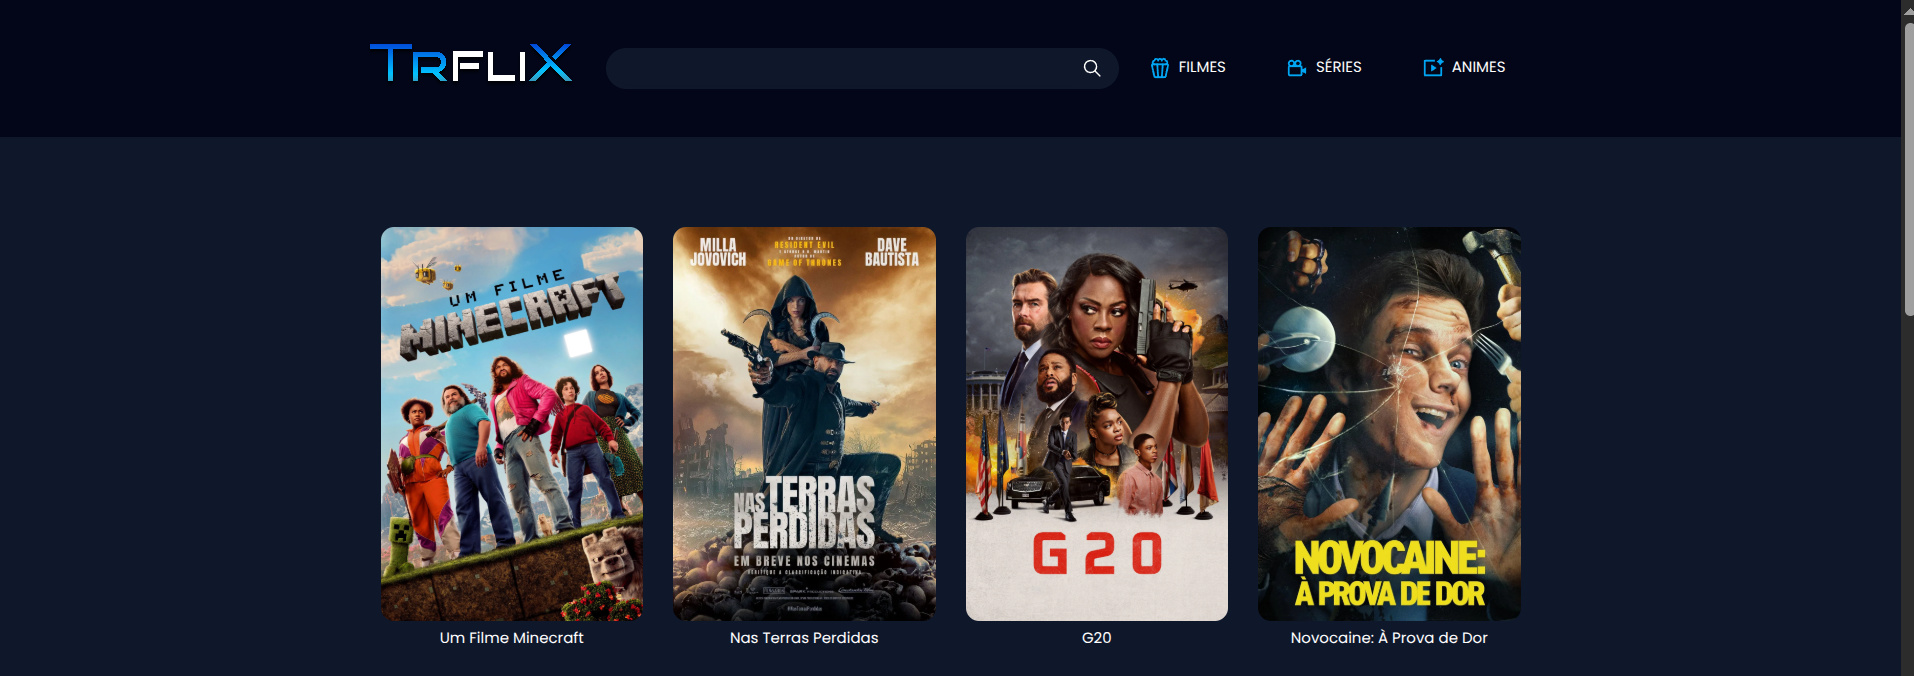
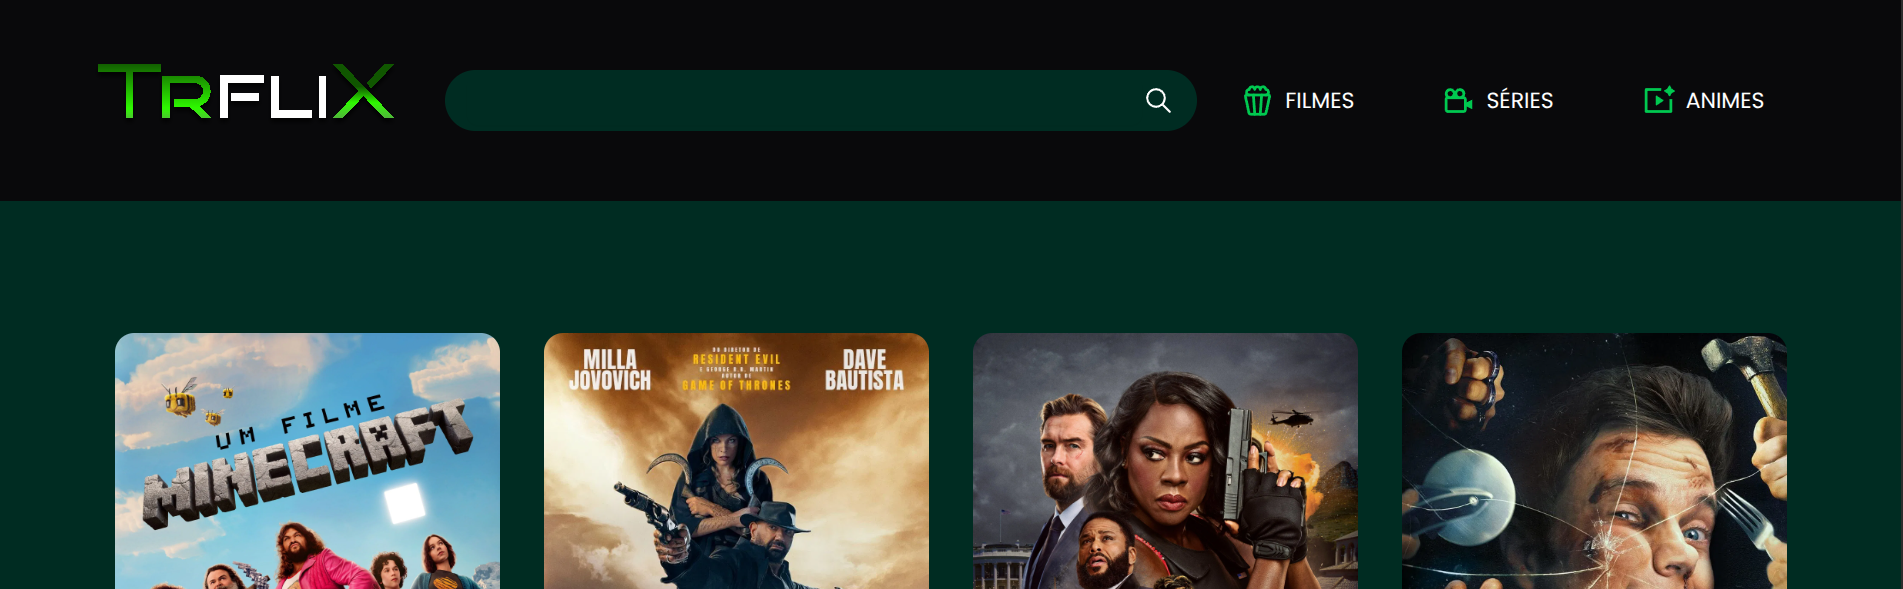
color green

diff --git a/src/shared/Header.tsx b/src/shared/Header.tsx
@@ -5,18 +5,18 @@ import { LuPopcorn } from "react-icons/lu"
 import { RiMovieAiLine } from "react-icons/ri"
 import Container from "./Container"
 import Image from "next/image"
-import logo from "../../public/logo5.svg"
+import logo from "../../public/logo2.svg"
 import { Input } from "@/components/ui/input"
 import { IoIosSearch } from "react-icons/io"
 
 export default function Header() {
     return (
-        <header className="bg-slate-950 justify-center items-center py-8">
+        <header className="bg-zinc-950 justify-center items-center py-8">
             <Container className="flex  justify-between items-center gap-8 cursor-pointer" >
                 <Link href="/" className="">
                     <Image alt="teste" src={logo}  />
                 </Link>
-                <div className="w-2xl mx-auto bg-slate-900 border-none rounded-4xl  py-1 px-4 cursor-pointer">
+                <div className="w-2xl mx-auto bg-emerald-950 border-none rounded-4xl  py-1 px-4 cursor-pointer">
                     <div className="flex">
                         <Input className="border-none rounded-4x placeholder:text-slate-400 " placeholder="" />
                         <button className="">
@@ -25,21 +25,21 @@ export default function Header() {
                     </div>
                     
                 </div>
-                <nav className="flex justify-between gap-16 mx-auto  bg-slate-950 rounded-4xl cursor-pointer" >
+                <nav className="flex justify-between gap-16 mx-auto   rounded-4xl cursor-pointer" >
 
                     <Link href="/" className="flex gap-2">
                         <div className="flex gap-2">
-                            <LuPopcorn size={24} className="text-sky-500" />
+                            <LuPopcorn size={24} className="text-green-500" />
                             FILMES
                         </div>
                     </Link>
                     <Link href="" className="flex gap-2">
-                        <BiCameraMovie size={24} className="text-sky-500"/>
+                        <BiCameraMovie size={24} className="text-green-500"/>
                         SÉRIES
                     </Link>
 
                     <Link href="" className="flex gap-2">
-                        <RiMovieAiLine size={24} className="text-sky-500" />
+                        <RiMovieAiLine size={24} className="text-green-500" />
                         ANIMES
 
                     </Link>

diff --git a/src/shared/Footer.tsx b/src/shared/Footer.tsx
@@ -2,18 +2,18 @@
 import Image from "next/image"
 import Link from "next/link"
 import { FaHeart } from "react-icons/fa"
-import logo from "../../public/logo5.svg"
+import logo from "../../public/logo2.svg"
 import Container from "./Container"
 
 export default function Footer() {
     return (
-        <footer className="bg-slate-950 justify-center items-center py-8 ">
+        <footer className="bg-zinc-950 justify-center items-center py-8 ">
             <Container className="flex  flex-col justify-center items-center" >
                 <Link href="/" className="">
                     <Image alt="teste" src={logo}  />
                 </Link>
                 
-                <span className="text-sm text-slate-500 bg-slate-950  font-mono  w-full flex items-center justify-center tracking-wide hover:text-slate-500 cursor-pointer">
+                <span className="text-sm text-slate-500 bg-Inc-950  font-mono  w-full flex items-center justify-center tracking-wide hover:text-slate-500 cursor-pointer">
                     Developed by Parícia Souza{" "}
                     <span className="text-red-600 px-2">
                         <FaHeart size={18} color="" />

diff --git a/src/app/layout.tsx b/src/app/layout.tsx
@@ -25,7 +25,7 @@ export default function RootLayout({
   return (
     <html lang="en">
       <body
-        className={`${poppins.variable} antialiased bg-slate-900 text-white`}
+        className={`${poppins.variable} antialiased bg-emerald-950 text-white`}
       >
         <Header />
         {children}
